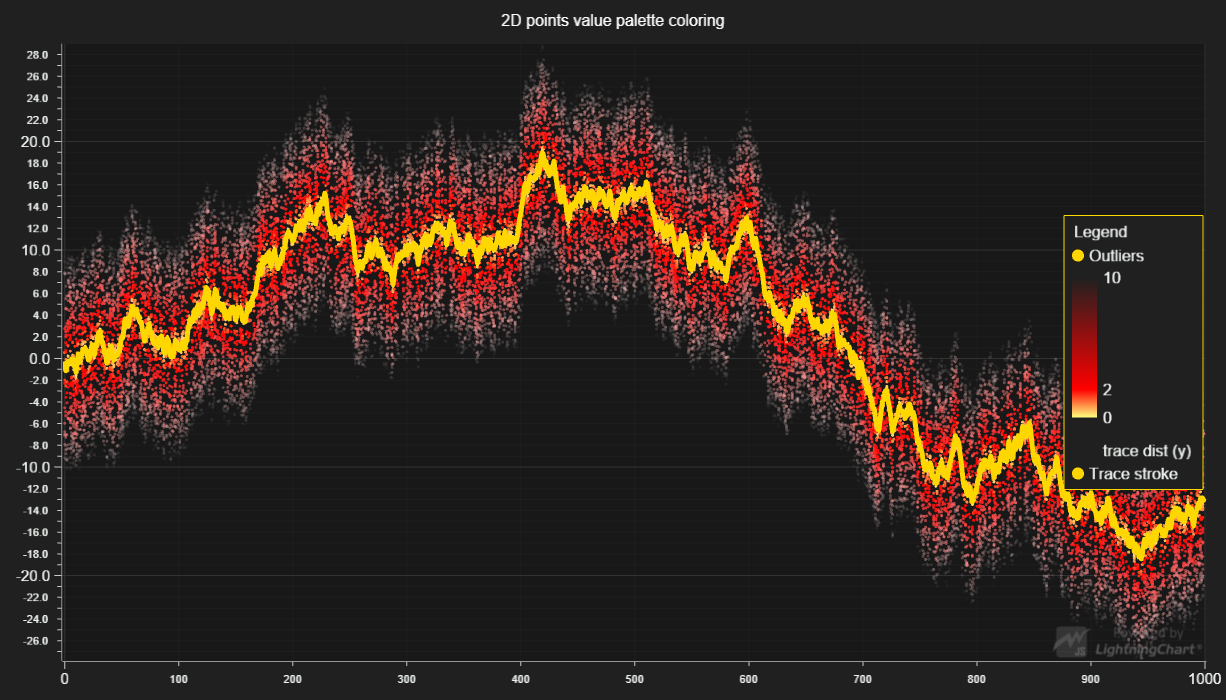
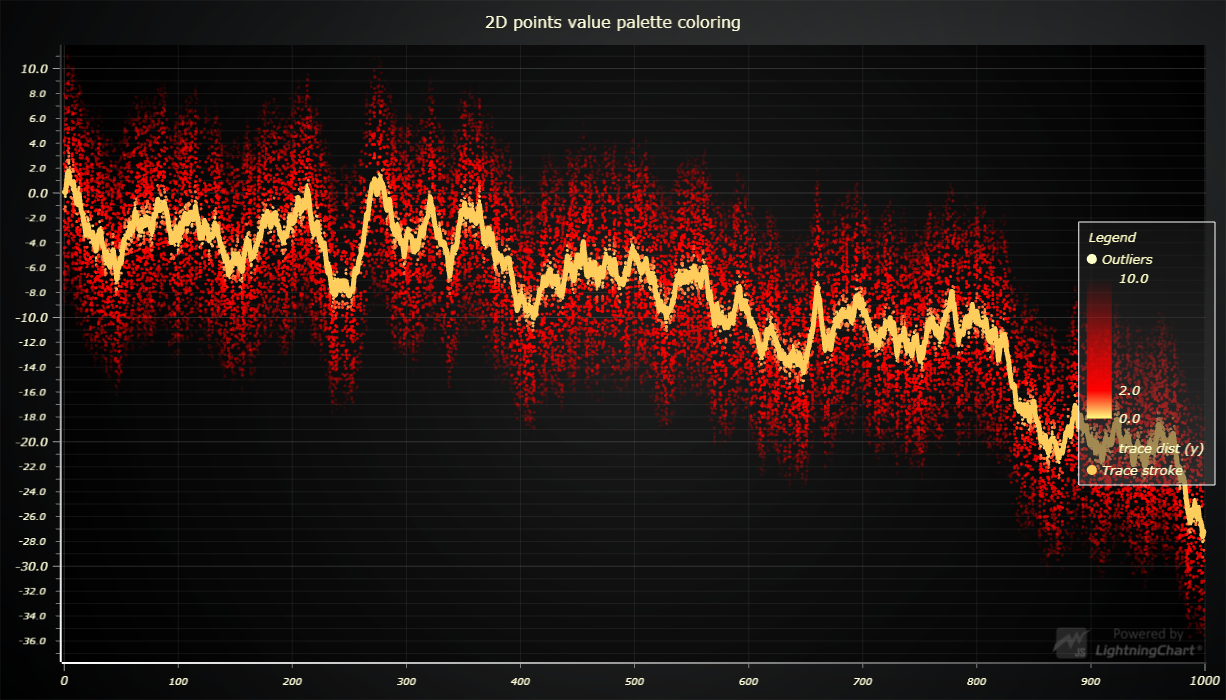
Update LCJS version

diff --git a/src/index.js b/src/index.js
@@ -7,7 +7,6 @@ const lcjs = require("@arction/lcjs");
 // Extract required parts from LightningChartJS.
 const {
   lightningChart,
-  SolidLine,
   PointShape,
   PalettedFill,
   LUT,
@@ -21,7 +20,7 @@ const { createProgressiveTraceGenerator } = require("@arction/xydata");
 // Create a XY Chart.
 const chart = lightningChart()
   .ChartXY({
-    // theme: Themes.dark
+    // theme: Themes.darkGold
   })
   .setTitle("2D points value palette coloring")
   .setPadding({ right: 20 });
@@ -81,5 +80,10 @@ createProgressiveTraceGenerator()
       .add(tracePoints)
       .setStrokeStyle((style) => style.setThickness(5));
 
-    chart.addLegendBox().add(chart);
+    chart.addLegendBox().add(chart)
+      // Dispose example UI elements automatically if they take too much space. This is to avoid bad UI on mobile / etc. devices.
+      .setAutoDispose({
+          type: 'max-width',
+          maxWidth: 0.20,
+      })
   });

diff --git a/webpack.config.js b/webpack.config.js
@@ -69,7 +69,8 @@ module.exports = {
         }),
         new CopyWebpackPlugin({
             patterns: [
-                { from: './assets/**/*', to: './examples/assets', flatten: true, noErrorOnMissing: true }
+                { from: './assets/**/*', to: './examples/assets', flatten: true, noErrorOnMissing: true },
+                { from: './node_modules/@arction/lcjs/dist/resources', to: 'resources', noErrorOnMissing: true },
             ]
         })
     ]

diff --git a/README.md b/README.md
@@ -63,10 +63,10 @@ Direct developer email support can be purchased through a [Support Plan][4] or b
 © Arction Ltd 2009-2020. All rights reserved.
 
 
-[XY cartesian chart]: https://www.arction.com/lightningchart-js-api-documentation/v3.0.1/classes/chartxy.html
-[Solid line style]: https://www.arction.com/lightningchart-js-api-documentation/v3.0.1/classes/solidline.html
-[Point shape options]: https://www.arction.com/lightningchart-js-api-documentation/v3.0.1/enums/pointshape.html
-[Paletted fill style]: https://www.arction.com/lightningchart-js-api-documentation/v3.0.1/classes/palettedfill.html
-[Color lookup table]: https://www.arction.com/lightningchart-js-api-documentation/v3.0.1/classes/lut.html
-[Color factory RGBA]: https://www.arction.com/lightningchart-js-api-documentation/v3.0.1/globals.html#colorrgba
+[XY cartesian chart]: https://www.arction.com/lightningchart-js-api-documentation/v3.1.0/classes/chartxy.html
+[Solid line style]: https://www.arction.com/lightningchart-js-api-documentation/v3.1.0/classes/solidline.html
+[Point shape options]: https://www.arction.com/lightningchart-js-api-documentation/v3.1.0/enums/pointshape.html
+[Paletted fill style]: https://www.arction.com/lightningchart-js-api-documentation/v3.1.0/classes/palettedfill.html
+[Color lookup table]: https://www.arction.com/lightningchart-js-api-documentation/v3.1.0/classes/lut.html
+[Color factory RGBA]: https://www.arction.com/lightningchart-js-api-documentation/v3.1.0/globals.html#colorrgba
 
